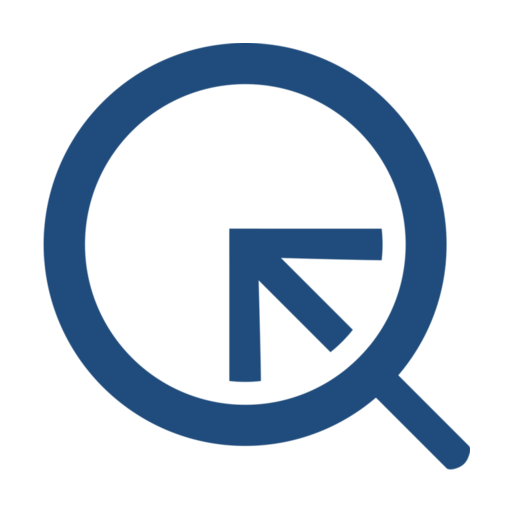
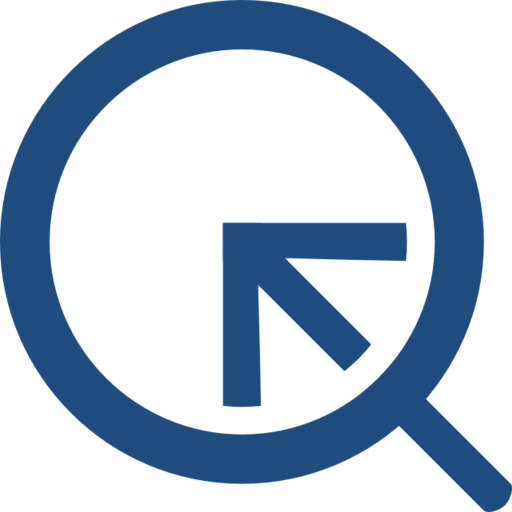
QU-1917: Rebrand thatDot Streaming Graph
# Description
Finish rebranding `quine-enterprise`. There are a few things that were
not rebranded due to `quine` and `quine-enterprise` sharing the same UI:

- [x] Browser Page Title
- [x] Favicon
- [x] Logo in Exploration UI
- [x] Remove white background and make BG transparent for Quine Favicon

This PR allows `quine-enterprise` and `quine` to indicate to the React
app powering the exploration UI which product is launching the UI,
allowing the UI to conditionally render depending on which product the
user launched.

Favicons are generated using: https://realfavicongenerator.net/

## Type of change
Delete options that are not relevant, add if necessary
- [ ] Bug fix (non-breaking change which fixes an issue)
- [x] New feature (non-breaking change which adds functionality)
- [ ] Breaking change (fix or feature that would cause existing
functionality to not work as expected)
- [ ] Refactor (rebased to a single commit to keep separate from other
changes)
- [ ] This change requires a documentation update
# How Has This Been Tested?
Describe the tests performed, including instructions to reproduce, and
relevant details for your test configuration
- [x] Ran `sbt quine/run` and visually inspected the Exploration UI and
the Browser Page Tab (Favicon and Title)
- [x] Did the same thing as above, but with `sbt "quine-enterprise/run"`
# Checklist:
- [x] I have performed a self-review of my code
- [x] I have verified my code doesn't add an implementation for
[…]

diff --git a/quine/src/main/resources/web/quine-ui-startup.js b/quine/src/main/resources/web/quine-ui-startup.js
@@ -28,6 +28,7 @@ window.onload = function() {
         },
         documentationUrl: document.baseURI + "docs/openapi.json",
         baseURI: document.baseURI,
-        serverUrl: document.baseURI.replace(/\/$/, "")
+        serverUrl: document.baseURI.replace(/\/$/, ""),
+        isQuineOSS: true,
     });
 };

diff --git a/quine/src/main/resources/web/quine-ui.html b/quine/src/main/resources/web/quine-ui.html
@@ -4,7 +4,6 @@
 <head>
   <title>Quine</title>
   <meta charset="utf-8">
-  <meta name="msapplication-config" content="/browserconfig.xml" />
 
   <base href="/"></base>
 
